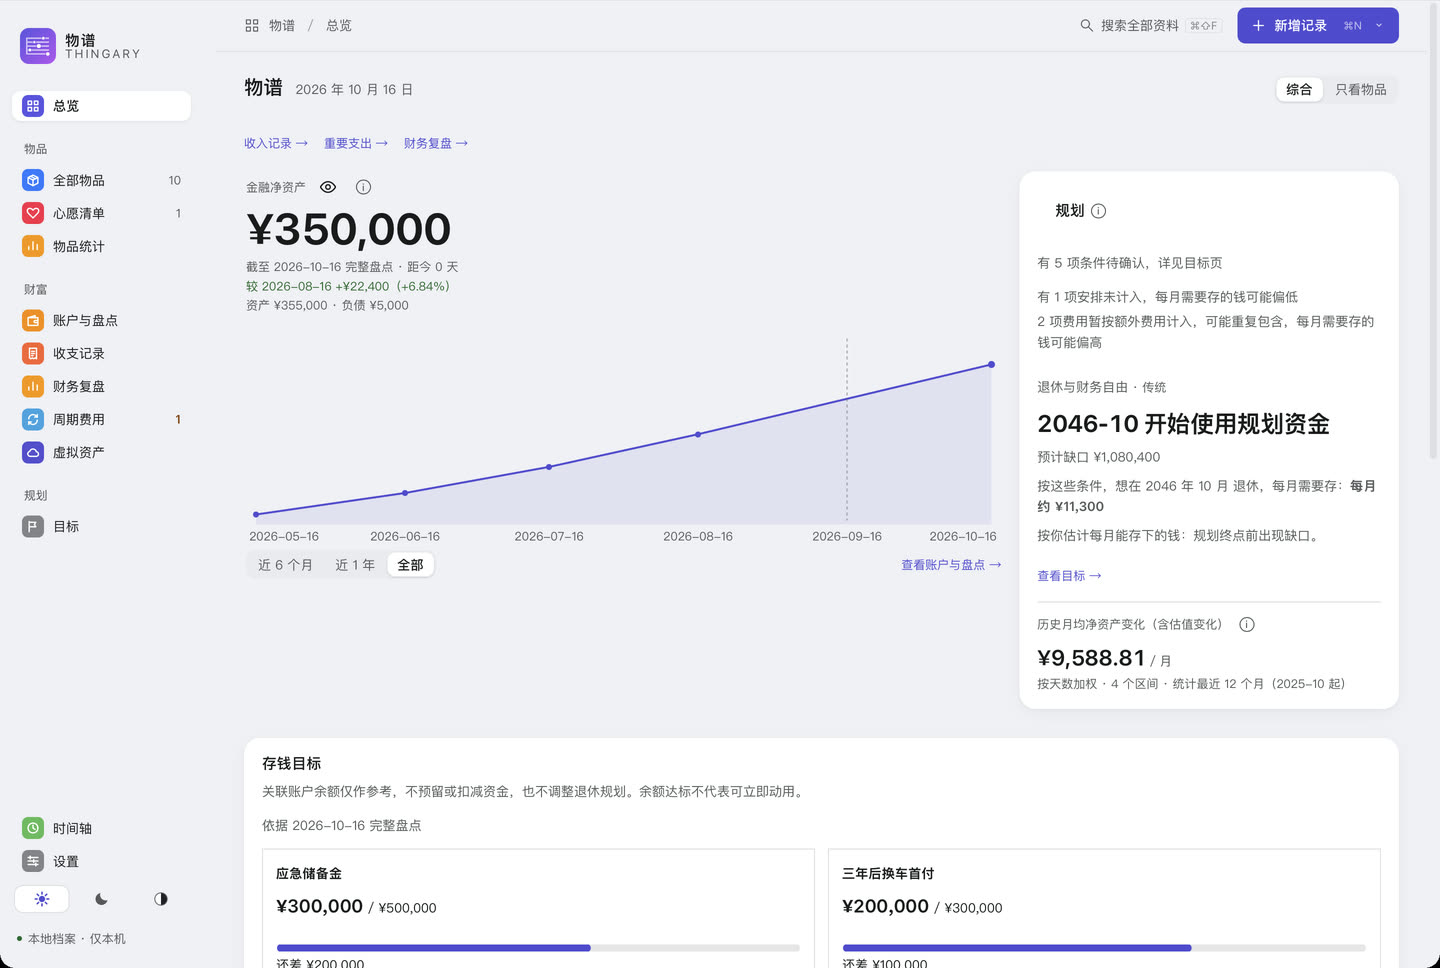
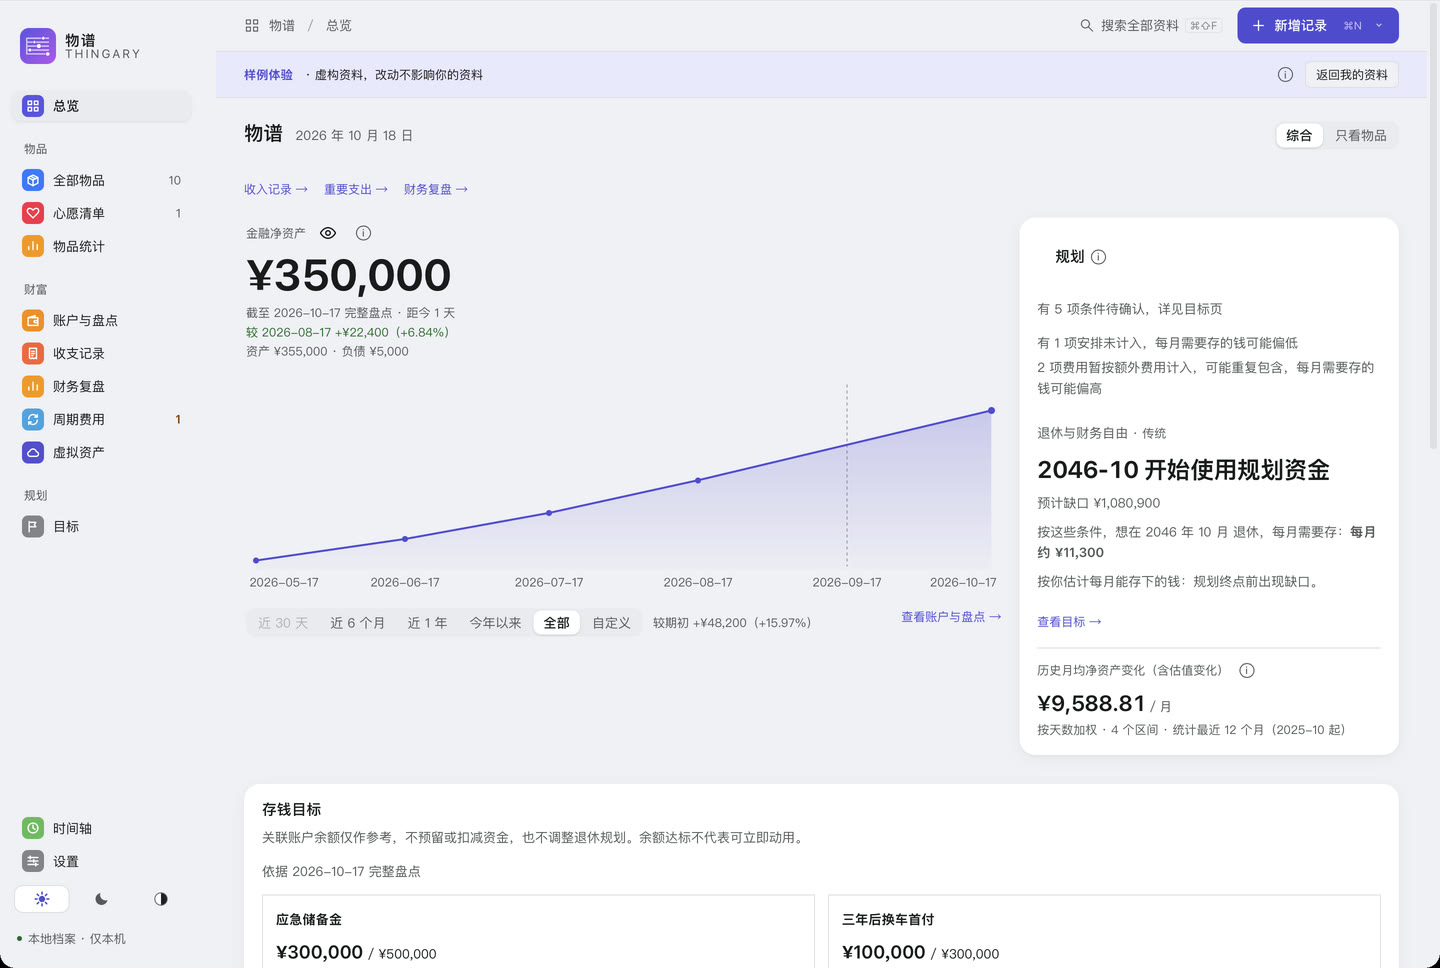
Retake the overview, accounts, items and savings goal screenshots for 0.0.8

diff --git a/docs/images/README.md b/docs/images/README.md
@@ -2,7 +2,7 @@
 
 ## 0.0.8 候选重拍（2026-10-17）
 
-`planning-goals.jpg`、`finance-review.jpg`、`annual-review.jpg` 与 `walkthrough.gif` 按 0.0.8 候选界面重拍：目标页左右布局（条件｜结果与资产轨迹，无顶部三问）、财务复盘只有「本期复盘／区间回顾」两个页签、区间回顾使用首页同款选期（默认近 1 年）并以小折线替代大曲线。来源为主分支提交后的隔离应用（身份 `local.thingary.shots.s20261017w8`，版本 0.0.8），资料为内置虚构样例，柔和卡片主题浅色；真实 macOS 原生窗口 1440×1000 点、2× 捕获（2880×2000），去掉 32 点标题栏后缩放到 **1440×968** JPEG，不改文字或数值。截图保留顶部「样例体验」提示条。`walkthrough.gif` 由 `node scripts/build-walkthrough.mjs` 重建，其余五帧沿用下表原图。其他图片未重拍，仍为下表来源。
+`planning-goals.jpg`、`finance-review.jpg`、`annual-review.jpg` 与 `walkthrough.gif` 按 0.0.8 候选界面重拍：目标页左右布局（条件｜结果与资产轨迹，无顶部三问）、财务复盘只有「本期复盘／区间回顾」两个页签、区间回顾使用首页同款选期（默认近 1 年）并以小折线替代大曲线。来源为主分支提交后的隔离应用（身份 `local.thingary.shots.s20261017w8`，版本 0.0.8），资料为内置虚构样例，柔和卡片主题浅色；真实 macOS 原生窗口 1440×1000 点、2× 捕获（2880×2000），去掉 32 点标题栏后缩放到 **1440×968** JPEG，不改文字或数值。截图保留顶部「样例体验」提示条。`walkthrough.gif` 由 `node scripts/build-walkthrough.mjs` 重建，其余帧同日重拍，见下。另有 `overview-light.jpg`、`overview-dark.jpg`、`wealth-light.jpg`、`assets-light.jpg`、`savings-goals.jpg` 同日（2026-10-18）按同一应用、同一规格重拍：总览（含净资产图范围切换与两张虚构存钱目标「应急储备金」50 万、「三年后换车首付」30 万，通过样例内的原生表单新增）、账户与盘点概览（范围切换、图例与新按钮名称「盘点全部账户」）、全部物品（选中一件的详情）。这些反映 0.0.7 之后改动的页面；其他图片未重拍，仍为下表来源。
 
 ## 0.0.7 候选主线截图（界面冻结后）
 
